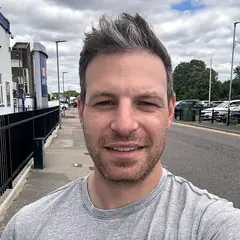
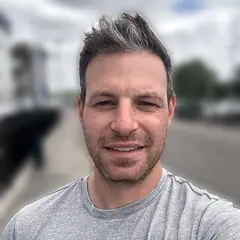
Expand founder bio

diff --git a/index.html b/index.html
@@ -178,7 +178,7 @@
 
 <section id="founder" class="founder">
   <h2>Who's behind Findable</h2>
-  <div class="founder-in"><img src="nick.webp" alt="Nick Cresner, founder of Findable" width="96" height="96" loading="lazy" decoding="async"><div><h3>Nick Cresner</h3><p class="small">Finchley local and dad of two. I spent nine years mapping Britain's roads at Navteq and HERE (the maps behind your satnav), so getting local businesses found is in my blood. Questions? Email <a href="mailto:hello@findable.london" class="inl">hello@findable.london</a>.</p></div></div>
+  <div class="founder-in"><img src="nick.webp" alt="Nick Cresner, founder of Findable" width="96" height="96" loading="lazy" decoding="async"><div><h3>Nick Cresner</h3><p class="small">Finchley local and dad of two. I spent nine years mapping Britain's roads at Navteq and HERE (the maps behind your satnav), then worked as a web developer, on a maintenance team and as a property manager, so I know both sides: how people search for a tradesperson, and what it takes to keep their jobs flowing. Questions? Email <a href="mailto:hello@findable.london" class="inl">hello@findable.london</a>.</p></div></div>
 </section>
 
 <section id="faq" class="faq">
